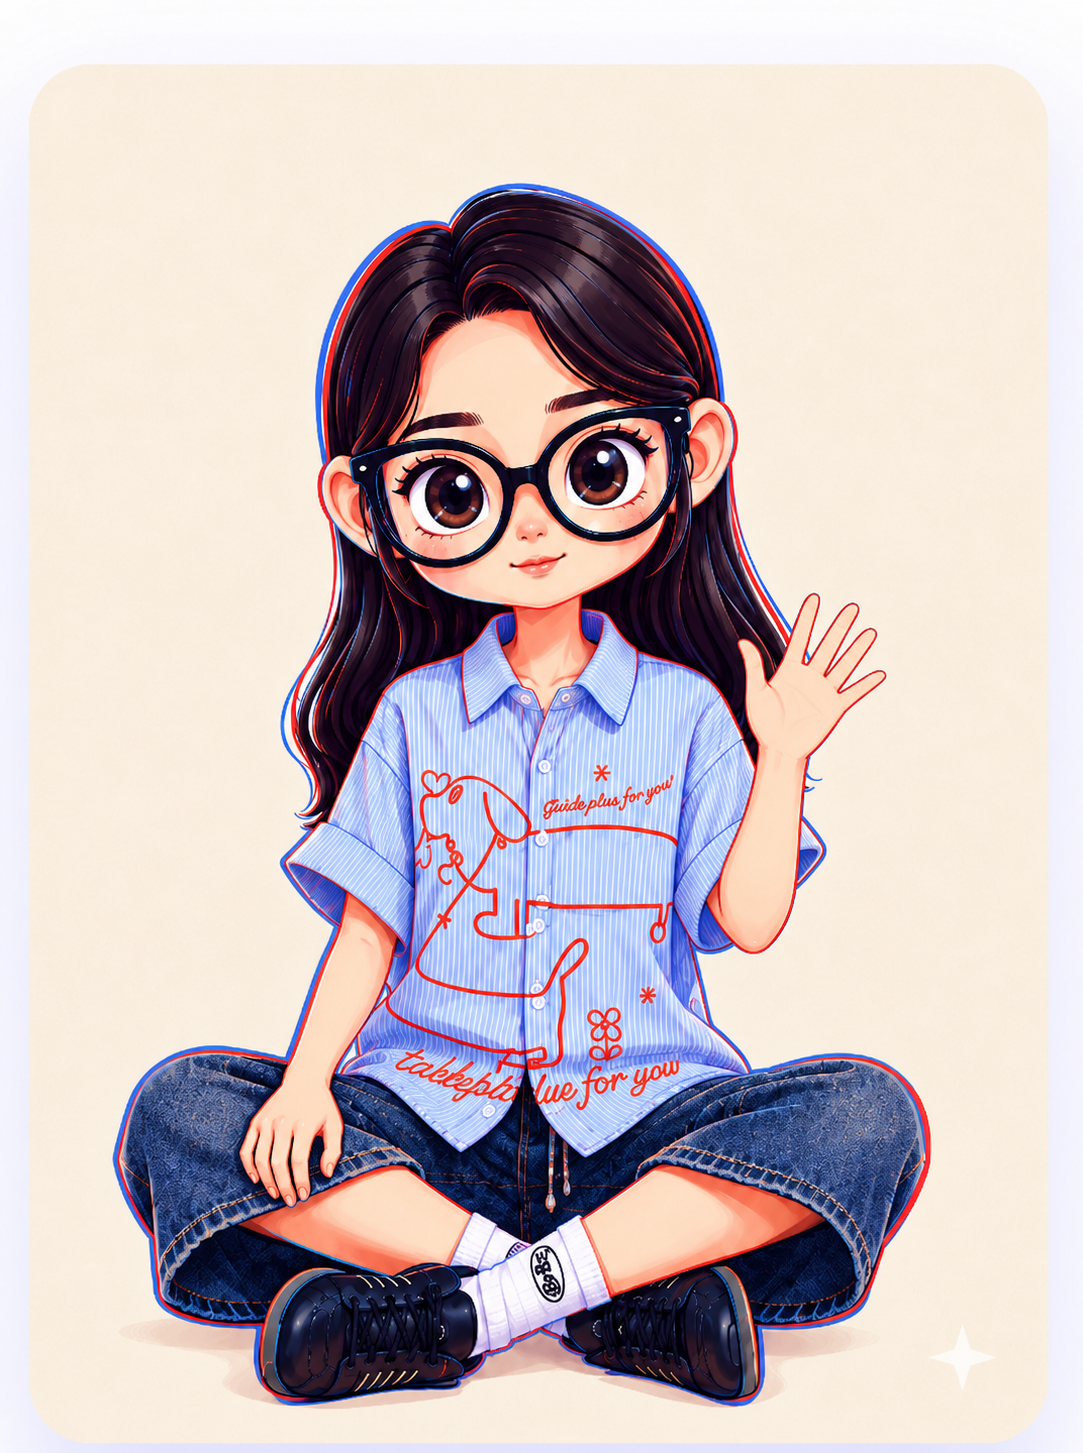
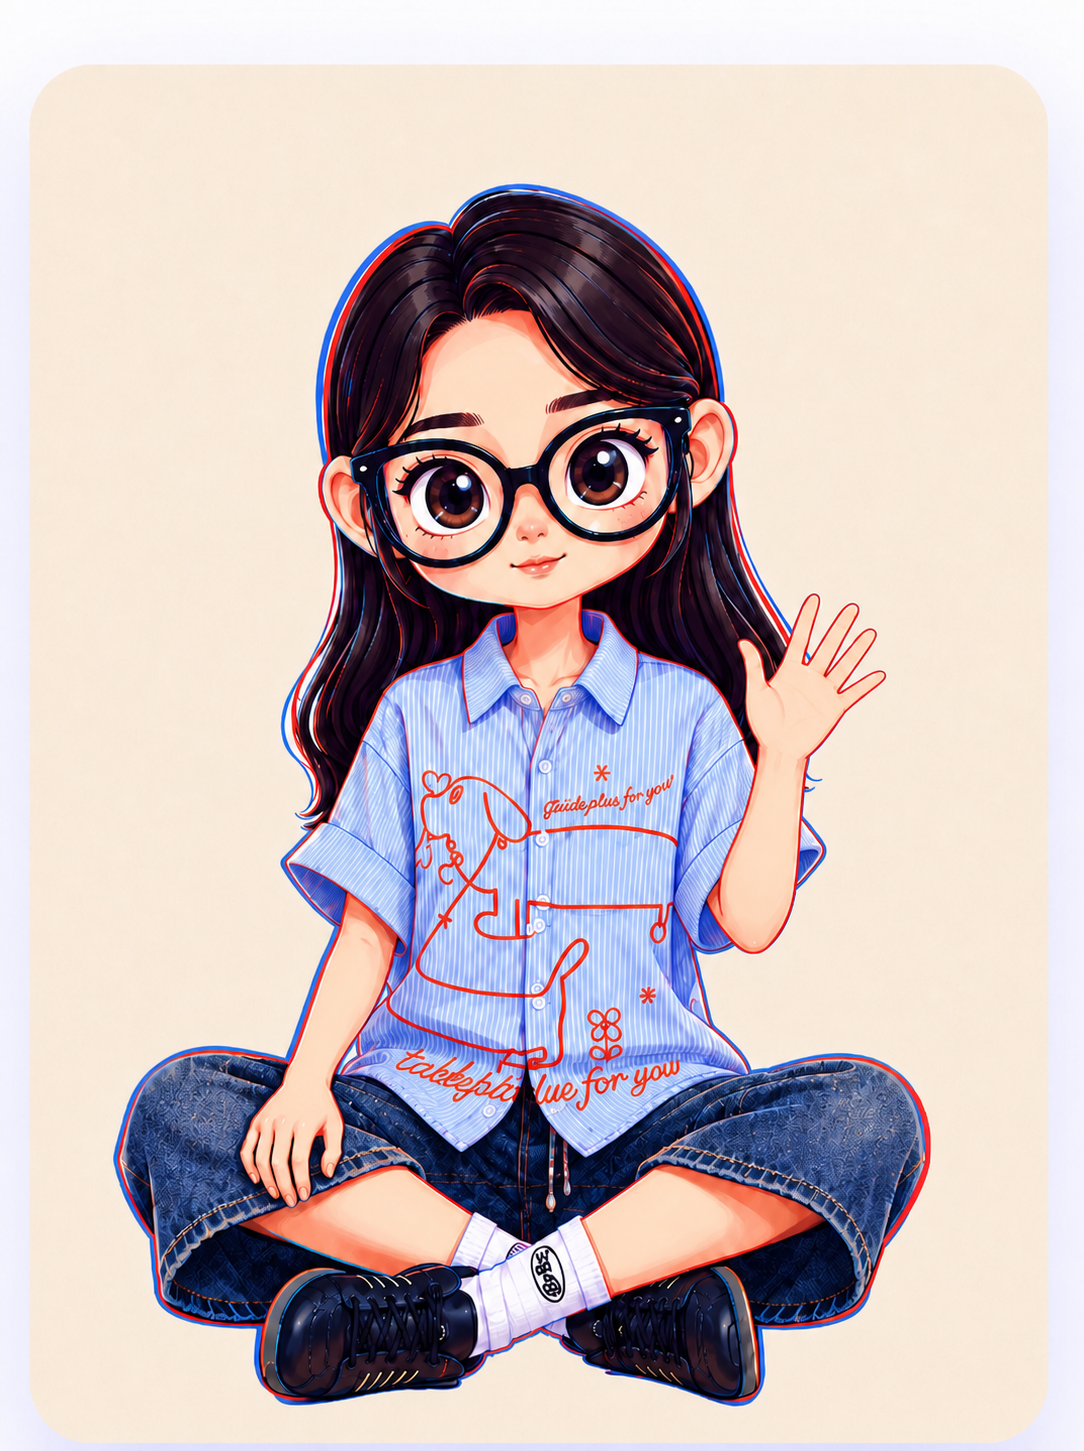
Split section backgrounds and remove marks

diff --git a/index.html b/index.html
@@ -16,9 +16,7 @@
 
         body {
             font-family: 'Inter', "Microsoft YaHei", sans-serif;
-            background:
-                linear-gradient(rgba(3, 5, 12, 0.22), rgba(3, 5, 12, 0.48)),
-                url('about-background.jpg') center center / cover fixed no-repeat;
+            background: #03040a;
             color: #333333;
             line-height: 1.6;
         }
@@ -200,12 +198,25 @@
         /* About Me 鍐呭鍖哄煙 */
         .container {
             max-width: 1180px;
-            margin: -20px auto 40px auto;
-            padding: 0 20px;
+            margin: 0 auto;
+            padding: 44px 20px;
             position: relative;
             z-index: 10;
             opacity: 1;
             transform: translateY(0);
+        }
+
+        .page-band {
+            position: relative;
+            min-height: 100vh;
+            background:
+                linear-gradient(rgba(3,5,12,0.22), rgba(3,5,12,0.48)),
+                url('about-background.jpg') center center / cover no-repeat;
+        }
+
+        .hobbies-band {
+            border-top: 1px solid rgba(255,255,255,0.18);
+            background-position: center center;
         }
 
         .content-card {
@@ -399,17 +410,6 @@
             opacity: 0;
         }
 
-        .about-photo-frame::after {
-            content: "";
-            position: absolute;
-            right: 18px;
-            bottom: 18px;
-            width: 24px;
-            height: 24px;
-            background: rgba(255,255,255,0.78);
-            clip-path: polygon(50% 0, 62% 38%, 100% 50%, 62% 62%, 50% 100%, 38% 62%, 0 50%, 38% 38%);
-        }
-
         .about-photo-frame:hover .about-photo-default {
             opacity: 0;
             transform: scale(1.035);
@@ -523,9 +523,9 @@
         }
 
         .hobbies-section {
-            margin-top: 44px;
-            padding-top: 34px;
-            border-top: 1px solid rgba(255,255,255,0.72);
+            margin-top: 0;
+            padding-top: 0;
+            border-top: 0;
             display: grid;
             grid-template-columns: repeat(3, minmax(0, 1fr));
             gap: 26px;
@@ -670,13 +670,6 @@
             font-weight: 500;
         }
 
-        .footer {
-            text-align: center;
-            margin-top: 45px;
-            color: #b2bec3;
-            font-size: 13px;
-        }
-
         @media (max-width: 768px) {
             .profile-grid {
                 grid-template-columns: 1fr;
@@ -722,7 +715,7 @@
             }
 
             .container {
-                margin-top: -10px;
+                padding: 28px 14px;
             }
 
             .hobbies-section {
@@ -786,8 +779,9 @@
         </header>
     </div>
 
-    <div class="container" id="about">
-        <div class="content-card">
+    <section class="page-band about-band" id="about">
+        <div class="container">
+            <div class="content-card">
 
             <h2 class="section-title">About Me</h2>
             <div class="section-divider"></div>
@@ -810,7 +804,14 @@
 
             </div>
 
-            <section class="hobbies-section" aria-labelledby="hobbies-title">
+            </div>
+        </div>
+    </section>
+
+    <section class="page-band hobbies-band">
+        <div class="container">
+            <div class="content-card hobbies-card">
+              <section class="hobbies-section" aria-labelledby="hobbies-title">
                 <h2 class="hobbies-title" id="hobbies-title">我的爱好</h2>
 
                 <article class="hobby-row">
@@ -851,14 +852,10 @@
                         <figure class="stack-card"><img src="assets/hobbies/travel/card-4.jpg" alt="旅游照片 4"></figure>
                     </div>
                 </article>
-            </section>
-
+              </section>
+            </div>
         </div>
-
-        <div class="footer">
-            <p>&copy; 2026 魏瑶 | Powered by GitHub Pages</p>
-        </div>
-    </div>
+    </section>
     </main>
     <script>
         window.addEventListener("load", () => {
